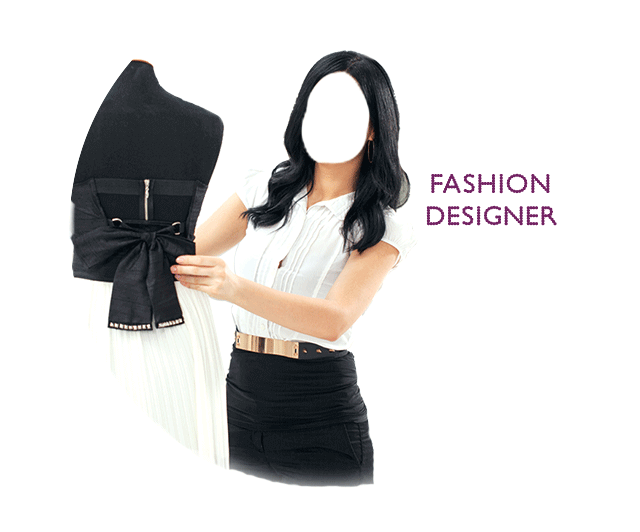
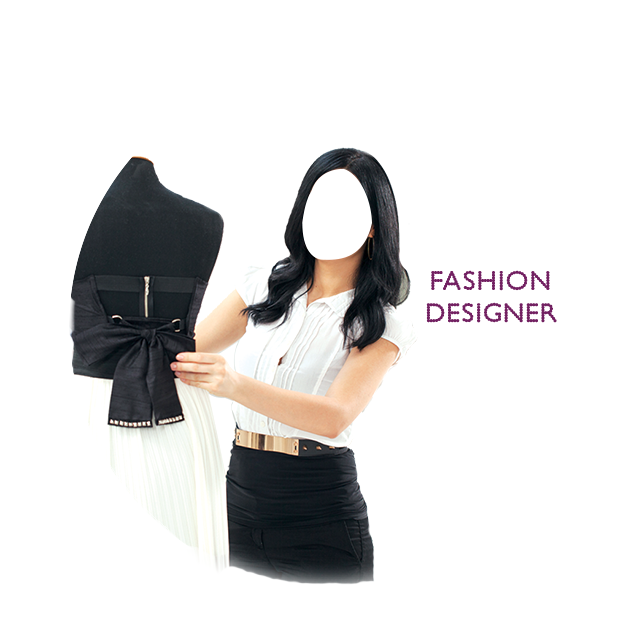
Update on images.

Changed region(s): [[0.0938, 0.0902, 0.875, 0.9323]]

diff --git a/js/main.js b/js/main.js
@@ -14,7 +14,7 @@ var mads = function () {
 	} else if (typeof custTracker != 'undefined') {
 		this.custTracker = custTracker;
 	} else {
-		this.custTracker = ['https://track.richmediaads.com/a/analytic.htm?uid=0&isNew={{isNew}}&referredUrl={{referredUrl}}&rmaId={{rmaId}}&domainId=0&pageLoadId={{pageLoadId}}&userId={{userId}}&pubUserId=0&campaignId={{campaignId}}&browser={{browser}}&os={{os}}&domain={{domain}}&callback=trackSuccess&callback=trackSuccess&type={{type}}&tt={{tt}}&value={{value}}', 'https://trk.mwstats.net/stats/ua-no-id.png?ii={{type}}&io=391'];//[];
+		this.custTracker = [];
 	}
 
 	/* Unique ID on each initialise */
@@ -177,21 +177,21 @@ sparrow.prototype.preload = function(){
   	'girls.src='+ _this.sdk.path+' "img/1-frame/girls.png";'+
   	'arrow_left.src='+ _this.sdk.path+' "img/2-frame/arrow-left.png";'+
   	'arrow_right.src='+ _this.sdk.path+' "img/2-frame/arrow-right.png";'
-  	'chef_01.src='+ _this.sdk.path+' "img/2-frame/chef_01.png";'+
-  	'dancer_01.src='+ _this.sdk.path+' "img/2-frame/dancer_01.png";'
-  	'designer_01.src='+ _this.sdk.path+' "img/2-frame/designer_01.png";'+
-  	'model_01.src='+ _this.sdk.path+' "img/2-frame/model_01.png";'
-  	'singer_01.src='+ _this.sdk.path+' "img/2-frame/singer_01.png";'+
-  	'writer_01.src='+ _this.sdk.path+' "img/2-frame/writer_01.png";' +
-  	'photographer_01.src='+ _this.sdk.path+' "img/2-frame/photographer_01.png";'+
+  	'chef_01.src='+ _this.sdk.path+' "img/2-frame/chef.png";'+
+  	'dancer_01.src='+ _this.sdk.path+' "img/2-frame/dancer.png";'
+  	'designer_01.src='+ _this.sdk.path+' "img/2-frame/designer.png";'+
+  	'model_01.src='+ _this.sdk.path+' "img/2-frame/model.png";'
+  	'singer_01.src='+ _this.sdk.path+' "img/2-frame/singer.png";'+
+  	'writer_01.src='+ _this.sdk.path+' "img/2-frame/writer.png";' +
+  	'photographer_01.src='+ _this.sdk.path+' "img/2-frame/photographer.png";'+
   	'ring.src='+ _this.sdk.path+' "img/2-frame/ring.png";'+
-  	'chef_02.src='+ _this.sdk.path+' "img/3-frame/chef_02.png";'+
-  	'dancer_02.src='+ _this.sdk.path+' "img/3-frame/dancer_02.png";'
-  	'designer_02.src='+ _this.sdk.path+' "img/3-frame/designer_02.png";'+
-  	'model_02.src='+ _this.sdk.path+' "img/3-frame/model_02.png";'
-  	'singer_02.src='+ _this.sdk.path+' "img/3-frame/singer_02.png";'+
-  	'writer_02.src='+ _this.sdk.path+' "img/3-frame/writer_02.png";' +
-  	'photographer_02.src='+ _this.sdk.path+' "img/3-frame/photographer_02.png";'+
+  	'chef_02.src='+ _this.sdk.path+' "img/3-frame/chef.png";'+
+  	'dancer_02.src='+ _this.sdk.path+' "img/3-frame/dancer.png";'
+  	'designer_02.src='+ _this.sdk.path+' "img/3-frame/designer.png";'+
+  	'model_02.src='+ _this.sdk.path+' "img/3-frame/model.png";'
+  	'singer_02.src='+ _this.sdk.path+' "img/3-frame/singer.png";'+
+  	'writer_02.src='+ _this.sdk.path+' "img/3-frame/writer.png";' +
+  	'photographer_02.src='+ _this.sdk.path+' "img/3-frame/photographer.png";'+
   	'words_bottom.src='+ _this.sdk.path+' "img/3-frame/words_bottom.png";' +
   	'words_top.src='+ _this.sdk.path+' "img/3-frame/words_top.png";'+
   	'words_fourth.src='+ _this.sdk.path+' "img/4-frame/words.png";';
@@ -293,13 +293,13 @@ sparrow.prototype.secondScreen = function(img, match){
 
 		$('.main-second').append('<img src="'+ _this.sdk.path +'img/2-frame/ring.png" class="ring" />')
 		$('#carousel ul').empty();
-		$('#carousel ul').append('<li><img data-next="'+ _this.sdk.path +'img/3-frame/singer_02.png" src="'+_this.sdk.path+'img/2-frame/singer_01.png" id="singer" class="profession" width="340" height="290" style="margin-left: -65px;margin-top: -12px;" /></li>');
-		$('#carousel ul').append('<li><img data-next="'+ _this.sdk.path +'img/3-frame/chef_02.png" src="'+_this.sdk.path+'img/2-frame/chef_01.png" id="chef" class="profession" width="340" height="290" style="margin-left: -48px;margin-top: -5px;" /></li>');
-		$('#carousel ul').append('<li><img data-next="'+ _this.sdk.path +'img/3-frame/writer_02.png" src="'+_this.sdk.path+'img/2-frame/writer_01.png" id="writer" class="profession" width="340" height="290" style="margin-left: -77px;margin-top: 2px;" /></li>');
-		$('#carousel ul').append('<li><img data-next="'+ _this.sdk.path +'img/3-frame/model_02.png" src="'+_this.sdk.path+'img/2-frame/model_01.png" id="model" class="profession" width="320" height="280" style="margin-left: -58px;margin-top: 1px;" /></li>');
-		$('#carousel ul').append('<li><img data-next="'+ _this.sdk.path +'img/3-frame/dancer_02.png" src="'+_this.sdk.path+'img/2-frame/dancer_01.png" id="dancer" class="profession" width="320" height="290" style="margin-left: -46px;margin-top: -14px;" /></li>');
-		$('#carousel ul').append('<li><img data-next="'+ _this.sdk.path +'img/3-frame/designer_02.png" src="'+_this.sdk.path+'img/2-frame/designer_01.png" id="designer" class="profession" width="320" height="280" style="margin-left: -51px;margin-top: -4px;" /></li>');
-		$('#carousel ul').append('<li><img data-next="'+ _this.sdk.path +'img/3-frame/photographer_02.png" src="'+_this.sdk.path+'img/2-frame/photographer_01.png" id="photographer" class="profession" width="300" height="290" style="margin-left: -44px;margin-top: 6px;" /></li>');
+		$('#carousel ul').append('<li><img data-next="'+ _this.sdk.path +'img/3-frame/singer.png" src="'+_this.sdk.path+'img/2-frame/singer.png" id="singer" class="profession" width="340" height="290" style="margin-left: -69px;margin-top: -7px;" /></li>');
+		$('#carousel ul').append('<li><img data-next="'+ _this.sdk.path +'img/3-frame/chef.png" src="'+_this.sdk.path+'img/2-frame/chef.png" id="chef" class="profession" width="340" height="320" style="margin-left: -48px;margin-top: -29px;" /></li>');
+		$('#carousel ul').append('<li><img data-next="'+ _this.sdk.path +'img/3-frame/writer.png" src="'+_this.sdk.path+'img/2-frame/writer.png" id="writer" class="profession" width="340" height="320" style="margin-left: -77px;margin-top: -19px;" /></li>');
+		$('#carousel ul').append('<li><img data-next="'+ _this.sdk.path +'img/3-frame/model.png" src="'+_this.sdk.path+'img/2-frame/model.png" id="model" class="profession" width="320" height="300" style="margin-left: -62px;margin-top: -11px;" /></li>');
+		$('#carousel ul').append('<li><img data-next="'+ _this.sdk.path +'img/3-frame/dancer.png" src="'+_this.sdk.path+'img/2-frame/dancer.png" id="dancer" class="profession" width="350" height="300" style="margin-left: -75px;margin-top: -18px;" /></li>');
+		$('#carousel ul').append('<li><img data-next="'+ _this.sdk.path +'img/3-frame/designer.png" src="'+_this.sdk.path+'img/2-frame/designer.png" id="designer" class="profession" width="320" height="320" style="margin-left: -61px;margin-top: -32px;" /></li>');
+		$('#carousel ul').append('<li><img data-next="'+ _this.sdk.path +'img/3-frame/photographer.png" src="'+_this.sdk.path+'img/2-frame/photographer.png" id="photographer" class="profession" width="300" height="290" style="margin-left: -44px;margin-top: 6px;" /></li>');
 
 		
 		$('.jcarousel').jcarousel();
@@ -331,7 +331,7 @@ sparrow.prototype.secondScreen = function(img, match){
 			setTimeout(function(){
 				$('.guide-wrapper').addClass('hidden');
 
-			}, 7000);
+			}, 1000);
 		}else{
 			$('.guide-wrapper').addClass('hidden');
 		}
@@ -515,8 +515,10 @@ sparrow.prototype.fillButtons = function(){
 	$('.btn-choose').on('click', function(){
 		_this.sdk.tracker('E', 'ss_pilih');
 		$('.loader-wrapper').removeClass('hidden');
+		var i = $('.jcarousel').jcarousel('visible').find('img').attr('id');
+		$('.jcarousel').jcarousel('visible').find('img').attr('src', _this.sdk.path + 'img/3-frame/' + i +'.png')
 		var profession = $('.jcarousel').jcarousel('visible').find('img').attr('src');
-		var profession2 = $('.jcarousel').jcarousel('visible').find('img').attr('data-next');
+		// var profession2 = $('.jcarousel').jcarousel('visible').find('img').attr('data-next');
 		var me = $('.canvas-move').find('img').attr('src');
 		var pos = $('.canvas-move').find('img').position();
 		var t =  parseInt($('.canvas-move').find('img').css('top').replace('px', ''));
@@ -547,7 +549,7 @@ sparrow.prototype.fillButtons = function(){
 			l += 2;
 			t -= 2;
 		}
-		_this.mergeImage(me, profession2, w, h, l , t, r);		
+		_this.mergeImage(me, profession, w, h, l , t, r);		
 	});
 }
 
@@ -555,7 +557,7 @@ sparrow.prototype.mergeImage = function(img1, img2, w, h, l, t, r){
 	var _this = this;
 	$.extend({
 		mergeImage : function (options) {
-			$(options.container).append('<canvas id="mergeImageCanvas" style="display:none;"></canvas>');
+			$(options.container).append('<canvas id="mergeImageCanvas" style="display:block;"></canvas>');
 
 			var canvas = $("#mergeImageCanvas")[0];
 			canvas.width = 303;
@@ -568,8 +570,8 @@ sparrow.prototype.mergeImage = function(img1, img2, w, h, l, t, r){
 
 			if (typeof options.scale != 'undefined') {
                 
-                var adjustmentX = 27 + ( -65 - parseInt($('.jcarousel').jcarousel('visible').find('img').css('margin-left').replace('px','')) );
-                var adjustmentY = 13 + ( -12 - parseInt($('.jcarousel').jcarousel('visible').find('img').css('margin-top').replace('px','')));
+	                var adjustmentX = 27 + ( -65 - parseInt($('.jcarousel').jcarousel('visible').find('img').css('margin-left').replace('px','')) );
+	                var adjustmentY = 13 + ( -12 - parseInt($('.jcarousel').jcarousel('visible').find('img').css('margin-top').replace('px','')));
 
 				var x = options.width / 100;
 				var n = options.scale * 100;
@@ -704,7 +706,7 @@ sparrow.prototype.finalScreen = function(){
 	$('.button-div').removeClass('div-right').addClass('div-left').empty().append('<img src="'+ _this.sdk.path +'img/4-frame/more-info.png" class="btn-more-info" />');
 
 	$('.btn-more-info').on('click', function(){
-		_this.sdk.tracker('CTR', 'ss_site');
+		_this.sdk.tracker('CTR', 'ss_info_selengkapnya');
 		_this.sdk.linkOpener('http://kilau.sunsilk.co.id/');
 	});
 }

diff --git a/mw.html b/mw.html
@@ -1,0 +1,31 @@
+<html>
+
+<head>
+    <meta charset="utf-8">
+    <meta http-equiv="X-UA-Compatible" content="IE=edge">
+    <meta name="viewport" content="width=device-width, initial-scale=1"> 
+</head>
+
+<body>
+<!--
+Rich Media Ad Tag 
+Platform: Mobilewalla
+RM Type: NON-MRAID
+-->
+<script type='text/javascript'>
+var rma ={
+'campaignId':'4c8e85256ca9b13883be204e373b89c7',
+'secure':'true',
+'cb':'${mw_bid_id}',
+'trackExp':'__MW_CLICK_URL__',
+'customize':{'custTracker':['https://track.richmediaads.com/a/analytic.htm?uid=0&isNew={{isNew}}&referredUrl={{referredUrl}}&rmaId={{rmaId}}&domainId=0&pageLoadId={{pageLoadId}}&userId={{userId}}&pubUserId=0&campaignId={{campaignId}}&browser={{browser}}&os={{os}}&domain={{domain}}&callback=trackSuccess&callback=trackSuccess&type={{type}}&tt={{tt}}&value={{value}}','https://trk.mwstats.net/stats/ua-no-id.png?ii={{type}}&io=391']},
+'customId':'${mw_exchange_id}',
+'tags':{'dsp':'other'}
+};
+</script>
+<img src='https://www.cdn.serving1.net/t?i=4c8e85256ca9b13883be204e373b89c7&cb=${mw_bid_id}&customId=${mw_exchange_id}&dsp=other&customId=noblock' width='1px' height='1px' style='display:none' onerror="this.src='https://track.richmediaads.com/t?i=4c8e85256ca9b13883be204e373b89c7&cb=${mw_bid_id}&customId=${mw_exchange_id}&dsp=other&customId=adblock'" /><script type='text/javascript' src='https://cdn.serving1.net/general.js'></script>
+<img src="__MW_IMPRESSION_URL__" width="0" height="0" style="display:none" />
+
+
+</body>
+</html>

diff --git a/css/sparrow.css b/css/sparrow.css
@@ -408,11 +408,12 @@ img.merge-image.dancer {
 .loader-wrapper{
 	width: 321px;
 	height: 481px;
-	background: rgba(0,0,0, 0.7);
+	background: black;
 	position: absolute;
 	z-index: 10;
 	margin-top: -481px;
 	margin-left: 0px;
+	opacity: 0.8;
 }
 
 img.guide {
